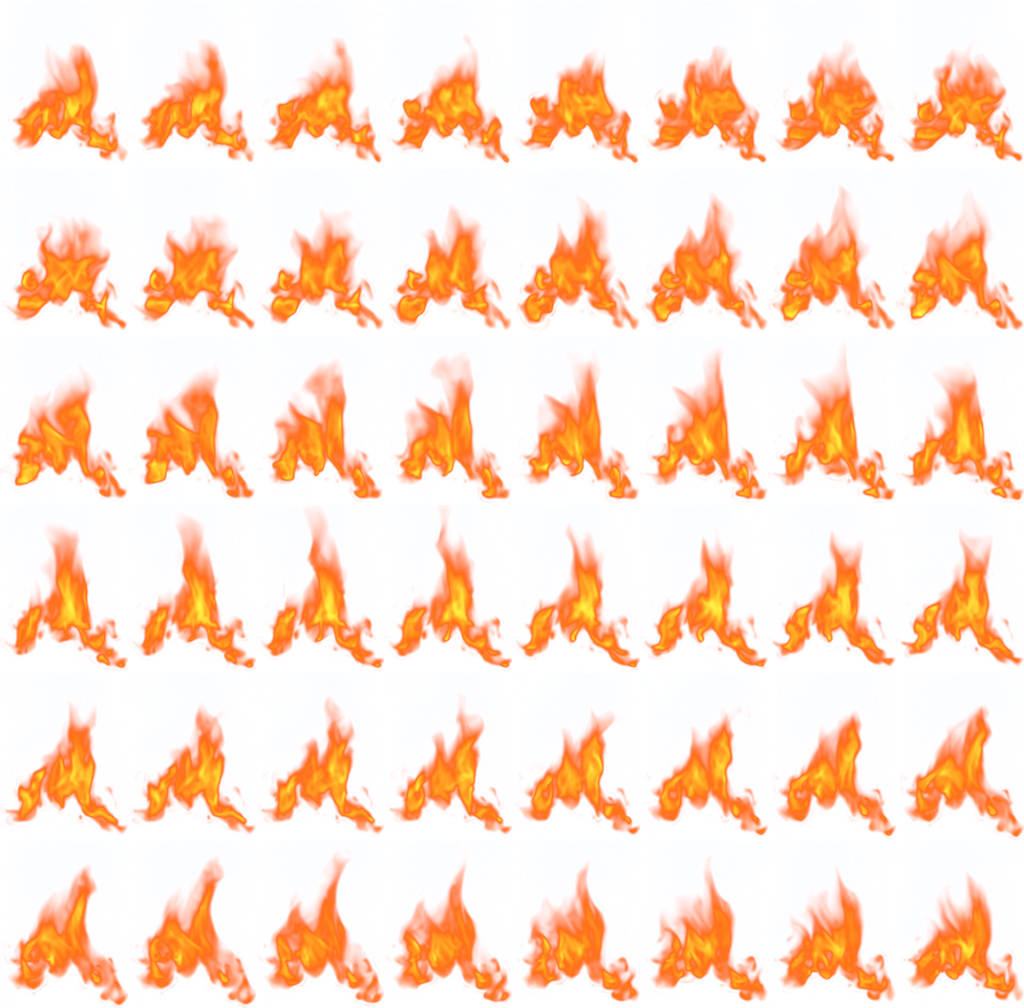
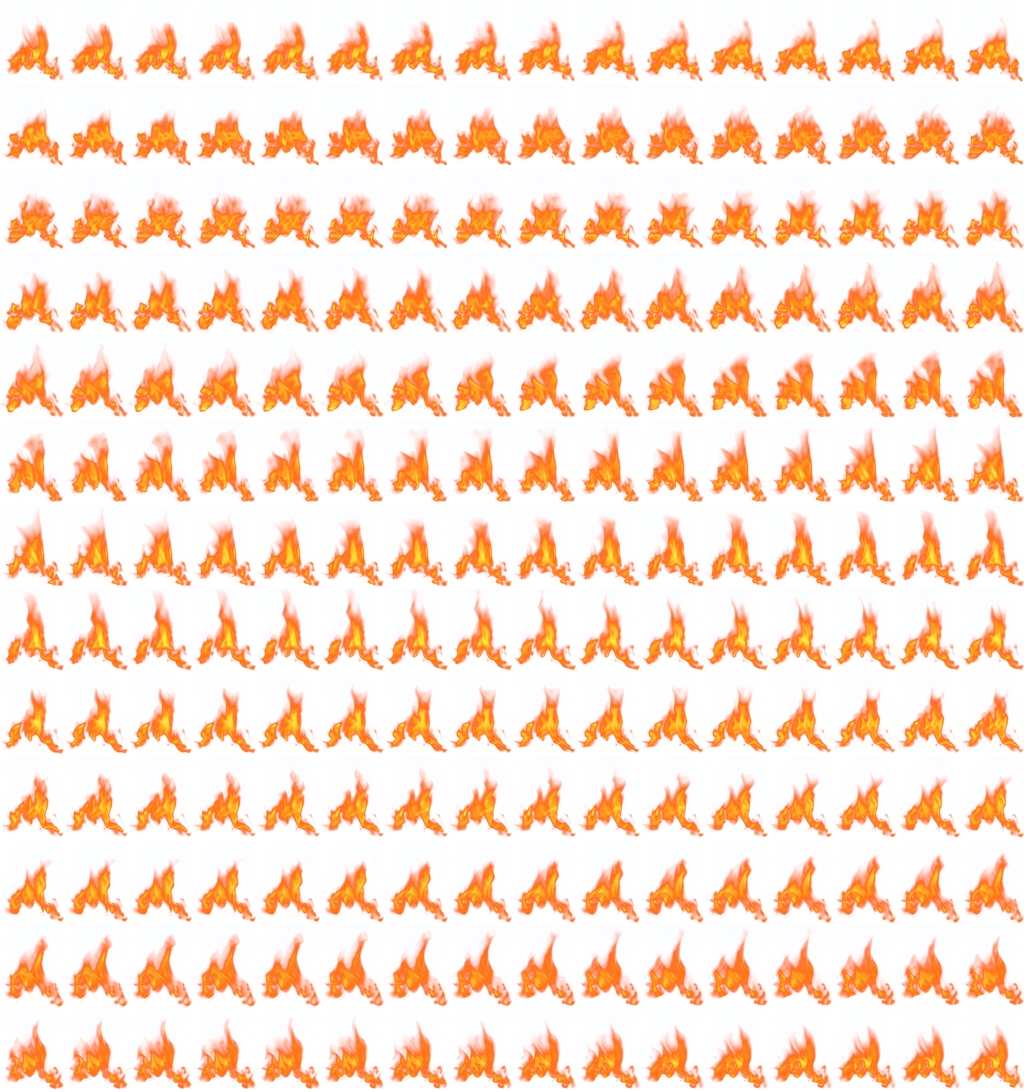
Карта: огонь костров — полная петля 208 кадров, 25 кадров в секунду
Claude-Session: https://claude.ai/code/session_01T1TvTKEmq5UwoYPTycnMDC

diff --git a/Assets/_Project/Scripts/Game/MapScreen.cs b/Assets/_Project/Scripts/Game/MapScreen.cs
@@ -711,7 +711,7 @@ namespace BladePath
             GUI.color = oc;
         }
 
-        // ---- живой огонь и туман (CGHEVEN, бесплатные видео 1K → листы кадров: UI/fx_campfire 8×6, UI/fx_mist 6×5)
+        // ---- живой огонь и туман (CGHEVEN, бесплатные видео 1K → листы кадров: UI/fx_campfire 16×13 — вся петля 208 кадров при 25 к/с, UI/fx_mist 6×5)
         const string FireSheet = "UI/fx_campfire", MistSheet = "UI/fx_mist", PuffSheet = "UI/fx_puff";
 
         /// <summary>Пламя костра на домике карты: основание — в точке огня (доли ячейки), по высоте ~ пятой части домика.</summary>
@@ -719,9 +719,9 @@ namespace BladePath
         {
             Texture2D fire = UiKit.Tex(FireSheet);
             if (fire == null) return;
-            float w = size * (at.z > 0.12f ? 0.15f : at.z), h = w * 168f / 128f;   // z — ширина пламени (у костров по умолчанию 0,15)
+            float w = size * (at.z > 0.12f ? 0.15f : at.z), h = w * 84f / 64f;   // z — ширина пламени (у костров по умолчанию 0,15)
             Vector2 c = new Vector2(cell.x + at.x * size, cell.y + at.y * size + size * 0.035f);
-            Flip(new Rect(c.x - w * 0.5f, c.y - h, w, h), fire, 8, 6, 48, 6f, i * 1.37f, new Color(1f, 1f, 1f, dim ? 0.45f : 0.92f), false);
+            Flip(new Rect(c.x - w * 0.5f, c.y - h, w, h), fire, 16, 13, 208, 25f, i * 1.37f, new Color(1f, 1f, 1f, dim ? 0.45f : 0.92f), false);
         }
 
         /// <summary>

diff --git a/tools/fx/cgheven/README.md b/tools/fx/cgheven/README.md
@@ -8,7 +8,7 @@
 Остальные листы здесь — запас: другие всплески, магический огонь, свеча, молния, дымовая волна.
 
 ## Карта и окна
-- `Resources/UI/fx_campfire.png` — Campfire 03 Loop Front (1K ProRes 4444), 48 кадров, 8×6 ячеек 128×168, альфа из яркости.
+- `Resources/UI/fx_campfire.png` — Campfire 03 Loop Front (1K ProRes 4444), вся петля — 208 кадров 25 к/с, 16×13 ячеек 64×84, альфа из яркости.
 - `Resources/UI/fx_mist.png` — Atmospheric Fog 09 Side, кадры 19–48, 6×5 ячеек 256×128, края смягчены, играет вперёд-назад.
 - Платные (PRO) у CGHEVEN: дым из труб (smoke plume), пар (steam jet), стелющийся/падающий туман, деревянный огонь — их не брали.
 - `Resources/UI/fx_puff.png` — 4 клуба из Atmospheric Fog 01 Front (2×2 по 128), края в овал: из них собраны дым трактира/привала/охотников и пар онсэна.
